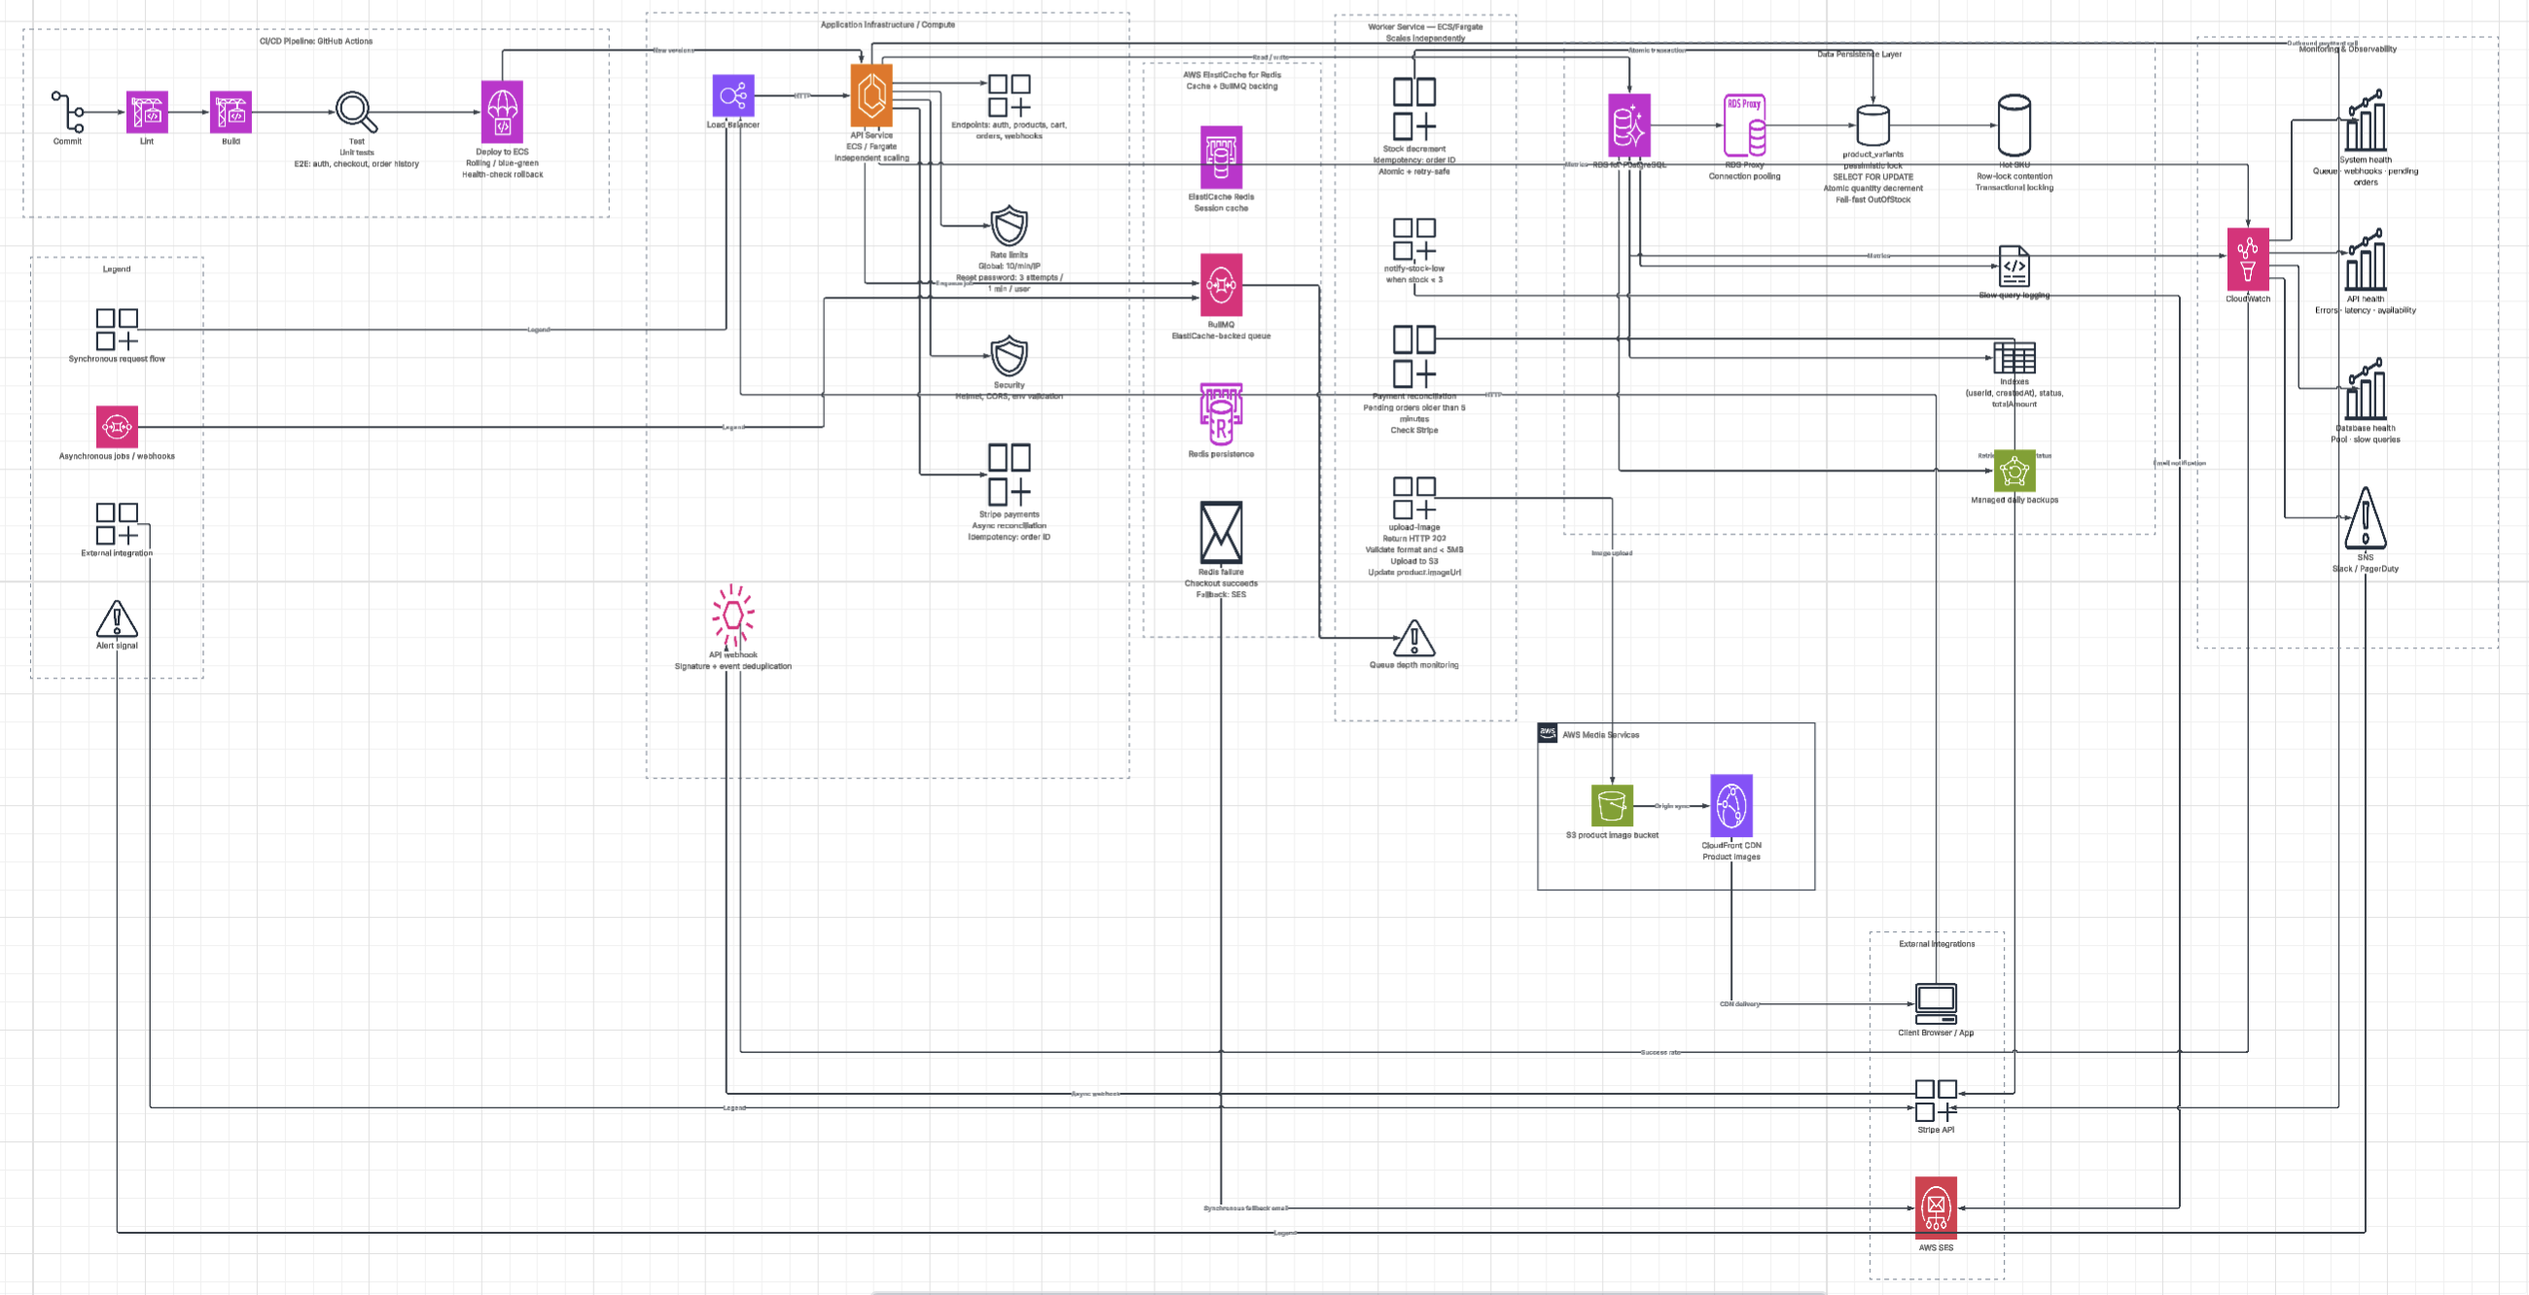
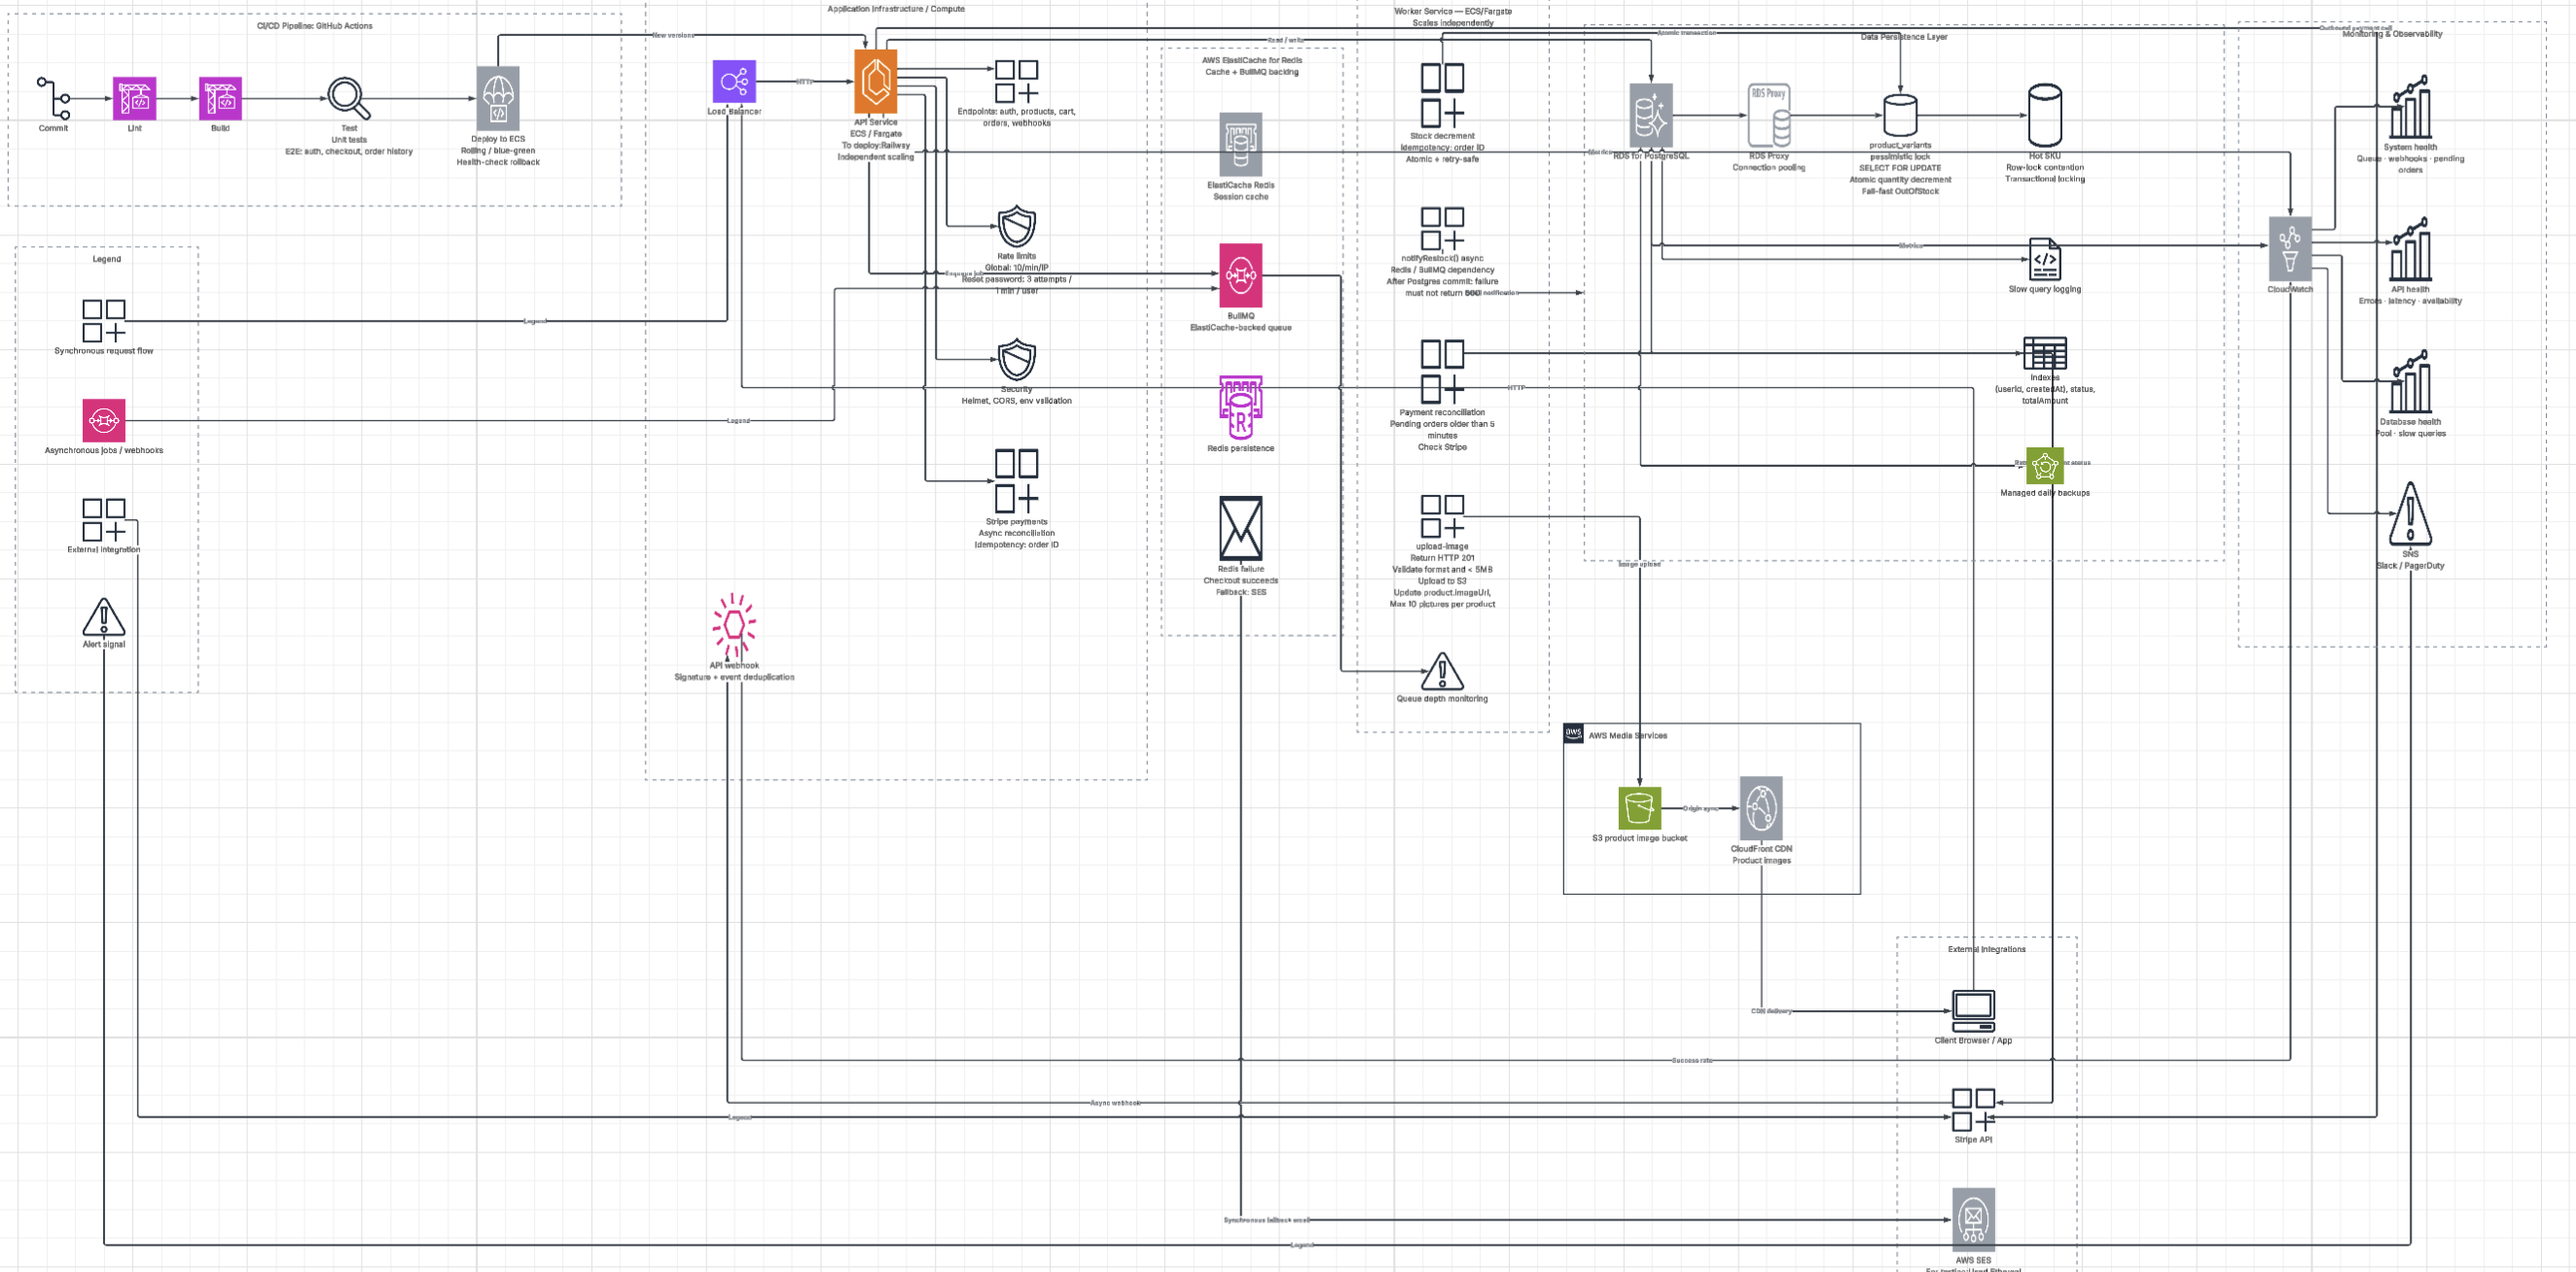
docs(architecture): formatting cleanup and updated AWS-style diagram

diff --git a/docs/architecture.md b/docs/architecture.md
@@ -1,41 +1,48 @@
-# T-Shirt Store API — Production Architecture 
+# T-Shirt Store API — Production Architecture
+
 [Link to Diagrams on Lucid](https://lucid.app/lucidchart/96dcfd19-f42c-492a-8698-97cf7bb118e6/edit?viewport_loc=-367%2C-43%2C2626%2C1473%2C0_0&invitationId=inv_bff82dc0-2016-4d4b-87bd-cb16ef3e8c46)
 
-## 1. Diagram 
+## 1. Diagram
+
 ![Diagram](architecture.png)
+
 ## Bonus: AWS style version
+
 ![AWSStyleDiagram](AWSarchitecture.png)
 
 [Link to Diagrams on Lucid](https://lucid.app/lucidchart/96dcfd19-f42c-492a-8698-97cf7bb118e6/edit?viewport_loc=-367%2C-43%2C2626%2C1473%2C0_0&invitationId=inv_bff82dc0-2016-4d4b-87bd-cb16ef3e8c46)
 
-## 2. Rationale 
-- Queue (BullMQ): I chose BullMQ  because it runs on the Redis instance and it integrates natively, and handles complex job lifecycle features (like delays, retries, and priorities) out of the box. Rabbit and Kafka are used for multiple independent services that must communicate async, e.g. streaming.
-I will consider to Switch condition: if te app scale to multiple services, or need cross-service events.
+## 2. Rationale
+
+- Queue (BullMQ): I chose BullMQ because it runs on the Redis instance and it integrates natively, and handles complex job lifecycle features (like delays, retries, and priorities) out of the box. Rabbit and Kafka are used for multiple independent services that must communicate async, e.g. streaming.
+  I will consider to Switch condition: if te app scale to multiple services, or need cross-service events.
 - What comes off the request path: only the stock-notification email (BullMQ/Redis). Everything
   else — auth, cart, checkout, order history — is synchronous, since none of it has a slow
   external dependency in the same way an email send does. A failed notification job retries 3x
   with exponential backoff (5s base); after that it sits in Redis's failed set unrequeued, with
   nothing currently watching it — a real observability gap, not a solved problem.
 - Deploy shape: I decide to separate [API and worker], worker scales independently. Postgres and Redis managed separately.
-What happen on migrations: for example add new column first, remove old one after deploy,two separate steps(expand-contract). On rollback: migration stays since it was additive, only the code gets rolled back.
-And on the diagram API and worker are separate deployable units, the pipeline can push a new version to either one without touching the other. It doesn't mean every deploy always updates both at the same time.
+  What happen on migrations: for example add new column first, remove old one after deploy,two separate steps(expand-contract). On rollback: migration stays since it was additive, only the code gets rolled back.
+  And on the diagram API and worker are separate deployable units, the pipeline can push a new version to either one without touching the other. It doesn't mean every deploy always updates both at the same time.
 - Monitoring: I would take stock consistency, this matters for stocking decisions. SKU race, for user experience so show them the right status code and what exactly happened. And the layer of authorization with CASL matters because users cannot manage products, as an example.
 
-##  3. Known risks 
+## 3. Known risks
+
 - Partial failure: Order is paid but stock wasn't reduced → risk: overselling, we could sell more than we have → fix: idempotency key on the order id.
-- Top OWASP risks: 
+- Top OWASP risks:
   - role check on product creation (BFLA — Broken Function Level Authorization), - session not revoked on password reset (Broken Authentication)
   - SKU race condition (inconsistent error handling .Right now the DB's UNIQUE constraint already blocks that; the real issue is a raw 500 instead of a clean 409 under concurrency).
 - E2E/regression gap: Without e2e testing I cannot catch if one user has access to create products.
 - Connection pooling: Per-instance limiting is best [for now], I need to focus on preventing overselling though. I would use PgBouncer after my limit of 10 replicas.
 
 ## 4. How do you know it still works
+
 - E2E coverage: authentication, checkout (asserts the real post-payment stock count, not just a
   200), and order history (asserts cross-client isolation — one client can't see another's
   orders) are covered end to end, running against a real Postgres via Testcontainers rather than
   mocks.
 - Named regression that would reach production unnoticed today: the Stripe webhook idempotency
-  guard (`stripe_events`, unique on `stripe_event_id`) inserts its row *before* the payment
+  guard (`stripe_events`, unique on `stripe_event_id`) inserts its row _before_ the payment
   transaction runs, and only marks it `processed` at the end. If that transaction throws partway
   (a transient DB error), the row is still there marked "seen." Stripe automatically retries a
   failed webhook delivery, but the retry hits that same row, is treated as a duplicate, and does
